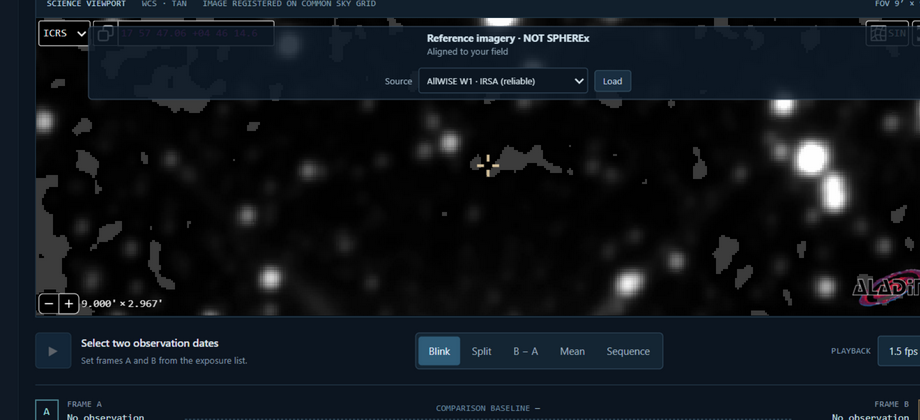
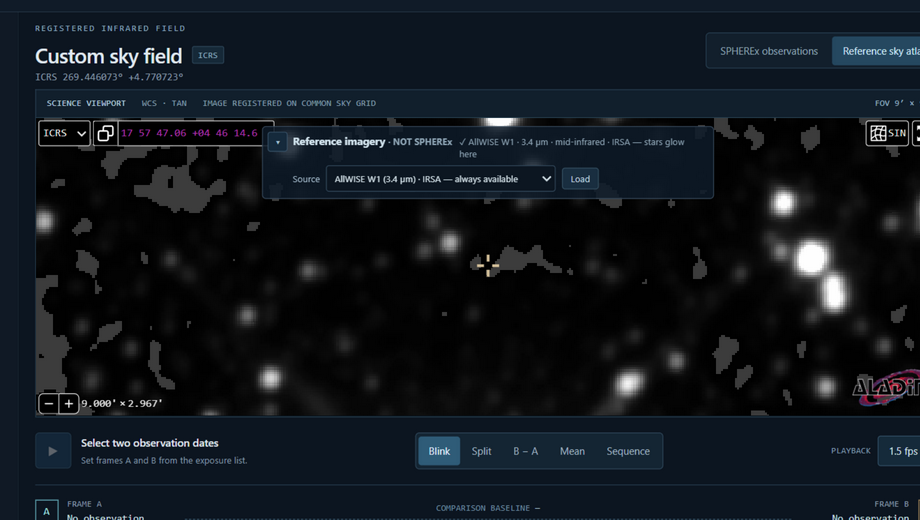
Atlas: reference image fills the viewport (2x sky coverage + view framing), pill moved to upper-middle

diff --git a/frontend/style.css b/frontend/style.css
@@ -53,7 +53,7 @@
 .img-box .science-image{width:100%;height:100%;object-fit:contain}
 .zoom-toolbar{display:flex;flex-direction:column;gap:4px;margin-bottom:6px}
 .hud-button.zoom{width:30px;height:28px;padding:0;font:13px var(--mono);display:grid;place-items:center}
-.atlas-header.compact{left:52px;right:auto;width:fit-content;max-width:560px;flex-direction:column;align-items:stretch;gap:6px;padding:7px 9px;bottom:44px;top:auto}
+.atlas-header.compact{left:50%;right:auto;width:fit-content;max-width:560px;flex-direction:column;align-items:stretch;gap:6px;padding:7px 9px;bottom:auto;top:8px;transform:translateX(-50%)}
 .atlas-header.compact .atlas-title-row{flex-direction:row;align-items:baseline;gap:7px}
 .atlas-header.compact strong{font-size:10.5px}
 .atlas-header.compact small{font-size:9px;color:#8fa6b6}

diff --git a/frontend/app.js b/frontend/app.js
@@ -511,6 +511,10 @@ function loadIrsaReferenceImage(){
   // Aladin Lite v3: displayFITS(url, layerName, successCallback, errorCallback)
   a.displayFITS(url, 'irsa-reference', ()=>{
     if(fallback){fallback.hidden=true;}
+    // The cutout covers ~2x the requested field; frame the view on the field
+    // itself so the image fills the viewport with context around it.
+    a.gotoRaDec(ra,dec);
+    a.setFov(Math.min(fov,60)/60);
     setAtlasStatus('ok','✓ AllWISE W1 · 3.4 µm · mid-infrared · IRSA — stars glow here');
   }, ()=>{
     if(fallback){fallback.hidden=false;}

diff --git a/backend/atlas.py b/backend/atlas.py
@@ -107,7 +107,7 @@ def atlas_fits(ra: float, dec: float, fov_arcmin: float, survey: str = 'wise') -
     # Docs example: 03/0390/0390p605_ac51/0390p605_ac51-w1-int-3.fits
     tile_url = (f'{IBE_BASE}/data/wise/allwise/p3am_cdd/'
                 f"{coadd_id[:2]}/{coadd_id[:4]}/{coadd_id}/{coadd_id}-w{BAND}-int-3.fits")
-    size_deg = min(max(fov_arcmin / 60.0 * 1.2, 0.05), 1.3)
+    size_deg = min(max(fov_arcmin / 60.0 * 2.0, 0.1), 1.25)
     cutout_url = tile_url + '?' + urlencode({'center': f'{ra:.6f},{dec:.6f}', 'size': f'{size_deg:.6f}'})
     tile_bytes = _download_cutout(cutout_url)
     if tile_bytes[:2] == b'\x1f\x8b':  # IBE serves gzip-compressed FITS cutouts
